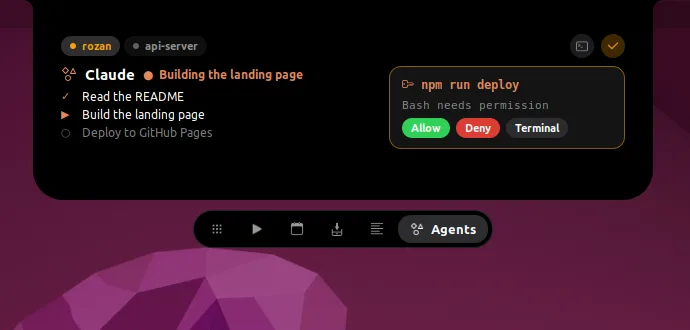
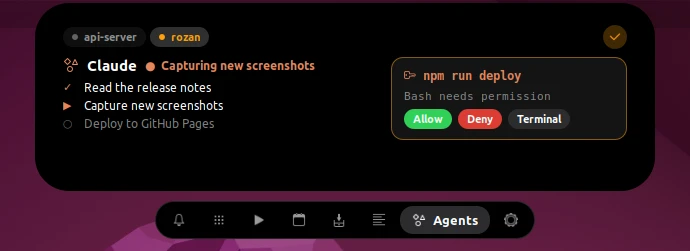
Update the website for the Dynamic Island look and tab settings
Retake every screenshot with the floating notch and the new tab pill
(Notifications tab and settings gear), and describe the settings window
in both the English and Persian pages.

diff --git a/site/fa/index.html b/site/fa/index.html
@@ -51,7 +51,7 @@
       <p class="meta"><span id="release-meta">GNOME Shell 42 · مجوز MIT</span>
         · <a href="https://github.com/HAstaShakiba/rozan/releases">همهی نسخهها</a></p>
       <div class="stage">
-        <img src="../screenshot.png" width="1160" height="245" fetchpriority="high"
+        <img src="../screenshot.png" width="1160" height="229" fetchpriority="high"
              alt="روزن باز در صفحهی Nook: کاور آهنگ و کنترلها، نمودار پردازنده و باتری، تایمر تمرکز و فهرست کارها">
       </div>
       <div class="pills">
@@ -65,7 +65,7 @@
   <section id="activities">
     <div class="wrap">
       <h2>فعالیتهای زنده، یکییکی</h2>
-      <p class="section-lead">وقتی بسته است، ناچ یک قرص سیاه کوچک روی نوار بالاست. مهمترین اتفاق همین لحظه را نشان
+      <p class="section-lead">وقتی بسته است، ناچ یک قرص سیاه کوچک است که مثل Dynamic Island داخل نوار بالا شناور است. مهمترین اتفاق همین لحظه را نشان
         میدهد و وقتی پنجرهای تمامصفحه شود، کنار میرود.</p>
       <div class="activities">
         <div>
@@ -92,7 +92,8 @@
     <div class="wrap">
       <h2>هفت بخش</h2>
       <p class="section-lead">ماوس را روی ناچ ببرید تا باز شود، بعد از نوار زبانهها یک بخش را انتخاب کنید. اسکرول به پایین
-        بازش میکند، اسکرول به بالا میبندد و اسکرول افقی آهنگ را عوض میکند.</p>
+        بازش میکند، اسکرول به بالا میبندد و اسکرول افقی آهنگ را عوض میکند. چرخدندهی انتهای نوار زبانهها
+        تنظیمات را باز میکند؛ آنجا میتوانید زبانهها را خاموش کنید یا ترتیبشان را عوض کنید.</p>
       <div class="tabs" role="tablist">
         <button class="tab" role="tab" aria-selected="true" aria-controls="p-notifications" id="t-notifications">اعلانها</button>
         <button class="tab" role="tab" aria-selected="false" aria-controls="p-nook" id="t-nook">Nook</button>
@@ -116,7 +117,7 @@
           <li>اعلان تازه در ناچ بسته هم چشمک میزند، مگر وقتی «مزاحم نشوید» روشن است.</li></ul></div>
       </div>
       <div class="panel wide" role="tabpanel" id="p-nook" aria-labelledby="t-nook" hidden>
-        <div class="shot"><img src="../img/nook.webp" width="1160" height="245" loading="lazy" alt="صفحهی Nook"></div>
+        <div class="shot"><img src="../img/nook.webp" width="1160" height="229" loading="lazy" alt="صفحهی Nook"></div>
         <div><h3>Nook</h3><ul>
           <li>پخشکنندهی کوچک با آیکون برنامه روی کاور.</li>
           <li>کاشی پردازنده و باتری با نمودار تاریخچه (روی دسکتاپ، حافظه).</li>
@@ -124,21 +125,21 @@
           <li>کارها: کلیک برای تیک زدن، کلیک راست برای حذف.</li></ul></div>
       </div>
       <div class="panel" role="tabpanel" id="p-music" aria-labelledby="t-music" hidden>
-        <div class="shot"><img src="../img/music.webp" width="560" height="240" loading="lazy" alt="صفحهی موسیقی"></div>
+        <div class="shot"><img src="../img/music.webp" width="560" height="237" loading="lazy" alt="صفحهی موسیقی"></div>
         <div><h3>موسیقی</h3><ul>
           <li>با هر پخشکنندهی MPRIS کار میکند: Spotify، فایرفاکس، کرومیوم، VLC و بقیه.</li>
           <li>کاور، نام آهنگ و خواننده، با نوار پیشرفتی که میشود کشید و جلو و عقب رفت.</li>
           <li>قبلی، پخش/توقف و بعدی؛ اسکرول افقی هم آهنگ را عوض میکند.</li></ul></div>
       </div>
       <div class="panel" role="tabpanel" id="p-calendar" aria-labelledby="t-calendar" hidden>
-        <div class="shot"><img src="../img/calendar.webp" width="760" height="330" loading="lazy" alt="صفحهی تقویم"></div>
+        <div class="shot"><img src="../img/calendar.webp" width="760" height="341" loading="lazy" alt="صفحهی تقویم"></div>
         <div><h3>تقویم</h3><ul>
           <li>رویدادهای باقیماندهی امروز و رویدادهای فردا، از سرویس تقویم گنوم.</li>
           <li>تقویمهای GNOME Online Accounts و Evolution را هم شامل میشود.</li>
           <li>رویدادی که در جریان است با <em>Now</em> مشخص میشود.</li></ul></div>
       </div>
       <div class="panel" role="tabpanel" id="p-tray" aria-labelledby="t-tray" hidden>
-        <div class="shot"><img src="../img/tray.webp" width="620" height="205" loading="lazy" alt="صفحهی سینی"></div>
+        <div class="shot"><img src="../img/tray.webp" width="620" height="203" loading="lazy" alt="صفحهی سینی"></div>
         <div><h3>سینی فایل</h3><ul>
           <li>قفسهای برای فایلهایی که قرار است بهزودی استفاده کنید.</li>
           <li>فایلها را در Files کپی کنید و <em>Paste</em> را بزنید (گنوم ۴۲ کشیدن و رها کردن از برنامههای ویلند را نمیگیرد).</li>
@@ -152,7 +153,7 @@
           <li>هنگام ضبط، با قفل باز نگهش دارید.</li></ul></div>
       </div>
       <div class="panel" role="tabpanel" id="p-agents" aria-labelledby="t-agents" hidden>
-        <div class="shot"><img src="../img/agents-perm.webp" width="690" height="330" loading="lazy" alt="صفحهی ایجنتها با یک درخواست مجوز"></div>
+        <div class="shot"><img src="../img/agents-perm.webp" width="690" height="251" loading="lazy" alt="صفحهی ایجنتها با یک درخواست مجوز"></div>
         <div><h3>ایجنتها</h3><ul>
           <li>همهی جلسههای Claude Code را دنبال کنید: درخواست، فهرست کارها و دستوری که الان اجرا میشود.</li>
           <li>درخواستهای مجوز را از خود ناچ تأیید یا رد کنید، یا به ترمینال بروید.</li>
@@ -166,9 +167,9 @@
       <h2>کلاسیک یا شیشهای</h2>
       <p class="section-lead">برای عوض کردن ظاهر، روی نوار زبانهها کلیک راست کنید.</p>
       <div class="compare">
-        <figure class="shot"><img src="../img/music.webp" width="560" height="240" loading="lazy" alt="ناچ سیاه کلاسیک در صفحهی موسیقی">
+        <figure class="shot"><img src="../img/music.webp" width="560" height="237" loading="lazy" alt="ناچ سیاه کلاسیک در صفحهی موسیقی">
           <figcaption>Classic <span>· سیاه یکدست، مثل یک ناچ واقعی</span></figcaption></figure>
-        <figure class="shot"><img src="../img/glass-music.webp" width="560" height="240" loading="lazy" alt="ناچ شیشهای مات و نیمهشفاف در صفحهی موسیقی">
+        <figure class="shot"><img src="../img/glass-music.webp" width="560" height="237" loading="lazy" alt="ناچ شیشهای مات و نیمهشفاف در صفحهی موسیقی">
           <figcaption>Liquid Glass <span>· مات و نیمهشفاف</span></figcaption></figure>
       </div>
     </div>
@@ -215,6 +216,7 @@ gnome-extensions enable rozan@hastashakiba.github.io</code></pre>
         <tr><td>کلیک بیرون یا اسکرول به بالا</td><td>بستن</td></tr>
         <tr><td>اسکرول افقی روی ناچ</td><td>آهنگ بعدی یا قبلی</td></tr>
         <tr><td>کلیک راست روی نوار زبانهها</td><td>جابهجایی بین کلاسیک و شیشهای</td></tr>
+        <tr><td>کلیک روی چرخدنده در نوار زبانهها</td><td>خاموش و روشن کردن زبانهها و تغییر ترتیبشان</td></tr>
       </table>
     </div>
   </section>

diff --git a/site/index.html b/site/index.html
@@ -54,7 +54,7 @@
       <p class="meta"><span id="release-meta">GNOME Shell 42 · MIT license</span>
         · <a href="https://github.com/HAstaShakiba/rozan/releases">All releases</a></p>
       <div class="stage">
-        <img src="screenshot.png" width="1160" height="245" fetchpriority="high"
+        <img src="screenshot.png" width="1160" height="229" fetchpriority="high"
              alt="Rozan open on the Nook page: album art and controls, CPU and battery charts, a Focus timer and a to-do list">
       </div>
       <div class="pills">
@@ -68,7 +68,7 @@
   <section id="activities">
     <div class="wrap">
       <h2>Live activities, one at a time</h2>
-      <p class="section-lead">Closed, the notch is a small black pill over the top bar. It shows the most important
+      <p class="section-lead">Closed, the notch is a small black pill floating inside the top bar, like the Dynamic Island. It shows the most important
         thing happening right now and gets out of the way when a window goes fullscreen.</p>
       <div class="activities">
         <div>
@@ -95,7 +95,8 @@
     <div class="wrap">
       <h2>Seven workspaces</h2>
       <p class="section-lead">Hover the notch to open it, then pick a workspace from the tab pill. Scroll down to open,
-        scroll up to close, and scroll sideways to skip tracks.</p>
+        scroll up to close, and scroll sideways to skip tracks. The gear at the end of the tab pill opens settings,
+        where you can turn tabs off and change their order.</p>
       <div class="tabs" role="tablist">
         <button class="tab" role="tab" aria-selected="true" aria-controls="p-notifications" id="t-notifications">Notifications</button>
         <button class="tab" role="tab" aria-selected="false" aria-controls="p-nook" id="t-nook">Nook</button>
@@ -119,7 +120,7 @@
           <li>A new one flashes in the closed notch, except in Do Not Disturb.</li></ul></div>
       </div>
       <div class="panel wide" role="tabpanel" id="p-nook" aria-labelledby="t-nook" hidden>
-        <div class="shot"><img src="img/nook.webp" width="1160" height="245" loading="lazy" alt="Nook page"></div>
+        <div class="shot"><img src="img/nook.webp" width="1160" height="229" loading="lazy" alt="Nook page"></div>
         <div><h3>Nook</h3><ul>
           <li>Mini player with the app's icon on the art.</li>
           <li>CPU and battery tiles with history charts (memory on desktops).</li>
@@ -127,21 +128,21 @@
           <li>To-dos: click to tick, right-click to delete.</li></ul></div>
       </div>
       <div class="panel" role="tabpanel" id="p-music" aria-labelledby="t-music" hidden>
-        <div class="shot"><img src="img/music.webp" width="560" height="240" loading="lazy" alt="Music page"></div>
+        <div class="shot"><img src="img/music.webp" width="560" height="237" loading="lazy" alt="Music page"></div>
         <div><h3>Music</h3><ul>
           <li>Works with any MPRIS player: Spotify, Firefox, Chromium, VLC and more.</li>
           <li>Art, title and artist, with a progress bar you can drag to seek.</li>
           <li>Previous, play/pause and next, plus sideways scroll to skip.</li></ul></div>
       </div>
       <div class="panel" role="tabpanel" id="p-calendar" aria-labelledby="t-calendar" hidden>
-        <div class="shot"><img src="img/calendar.webp" width="760" height="330" loading="lazy" alt="Calendar page"></div>
+        <div class="shot"><img src="img/calendar.webp" width="760" height="341" loading="lazy" alt="Calendar page"></div>
         <div><h3>Calendar</h3><ul>
           <li>Today's remaining events and tomorrow's, from GNOME's calendar server.</li>
           <li>Includes GNOME Online Accounts and Evolution calendars.</li>
           <li>An event in progress is marked <em>Now</em>.</li></ul></div>
       </div>
       <div class="panel" role="tabpanel" id="p-tray" aria-labelledby="t-tray" hidden>
-        <div class="shot"><img src="img/tray.webp" width="620" height="205" loading="lazy" alt="Tray page"></div>
+        <div class="shot"><img src="img/tray.webp" width="620" height="203" loading="lazy" alt="Tray page"></div>
         <div><h3>Tray</h3><ul>
           <li>A shelf for files you're about to use.</li>
           <li>Copy files in Files and press <em>Paste</em> (GNOME 42 can't accept drops from Wayland apps).</li>
@@ -155,7 +156,7 @@
           <li>Lock it open while you record.</li></ul></div>
       </div>
       <div class="panel" role="tabpanel" id="p-agents" aria-labelledby="t-agents" hidden>
-        <div class="shot"><img src="img/agents-perm.webp" width="690" height="330" loading="lazy" alt="Agents page with a permission request"></div>
+        <div class="shot"><img src="img/agents-perm.webp" width="690" height="251" loading="lazy" alt="Agents page with a permission request"></div>
         <div><h3>Agents</h3><ul>
           <li>Follow every Claude Code session: its prompt, task list and the command running now.</li>
           <li>Allow or deny permission requests from the notch, or jump to the terminal.</li>
@@ -169,9 +170,9 @@
       <h2>Classic or Liquid Glass</h2>
       <p class="section-lead">Right-click the tab pill to switch looks.</p>
       <div class="compare">
-        <figure class="shot"><img src="img/music.webp" width="560" height="240" loading="lazy" alt="Classic black notch on the Music page">
+        <figure class="shot"><img src="img/music.webp" width="560" height="237" loading="lazy" alt="Classic black notch on the Music page">
           <figcaption>Classic <span>· solid black, like a real notch</span></figcaption></figure>
-        <figure class="shot"><img src="img/glass-music.webp" width="560" height="240" loading="lazy" alt="Translucent blurred notch on the Music page">
+        <figure class="shot"><img src="img/glass-music.webp" width="560" height="237" loading="lazy" alt="Translucent blurred notch on the Music page">
           <figcaption>Liquid Glass <span>· blurred and translucent</span></figcaption></figure>
       </div>
     </div>
@@ -218,6 +219,7 @@ gnome-extensions enable rozan@hastashakiba.github.io</code></pre>
         <tr><td>Click outside or scroll up</td><td>Close it</td></tr>
         <tr><td>Scroll sideways on the notch</td><td>Next or previous track</td></tr>
         <tr><td>Right-click the tab pill</td><td>Switch between Classic and Liquid Glass</td></tr>
+        <tr><td>Click the gear in the tab pill</td><td>Turn tabs on or off and change their order</td></tr>
       </table>
     </div>
   </section>
@@ -239,7 +241,7 @@ gnome-extensions enable rozan@hastashakiba.github.io</code></pre>
       </details>
       <details class="faq">
         <summary><h3>Does it cover the date menu?</h3></summary>
-        <p>Yes. The notch sits over the center of the top bar, including the clock and date menu. The collapsed notch shows the time instead.</p>
+        <p>Yes. The notch floats in the center of the top bar, over the clock and date menu. The collapsed notch shows the time instead.</p>
       </details>
       <details class="faq">
         <summary><h3>What does "Rozan" mean?</h3></summary>
